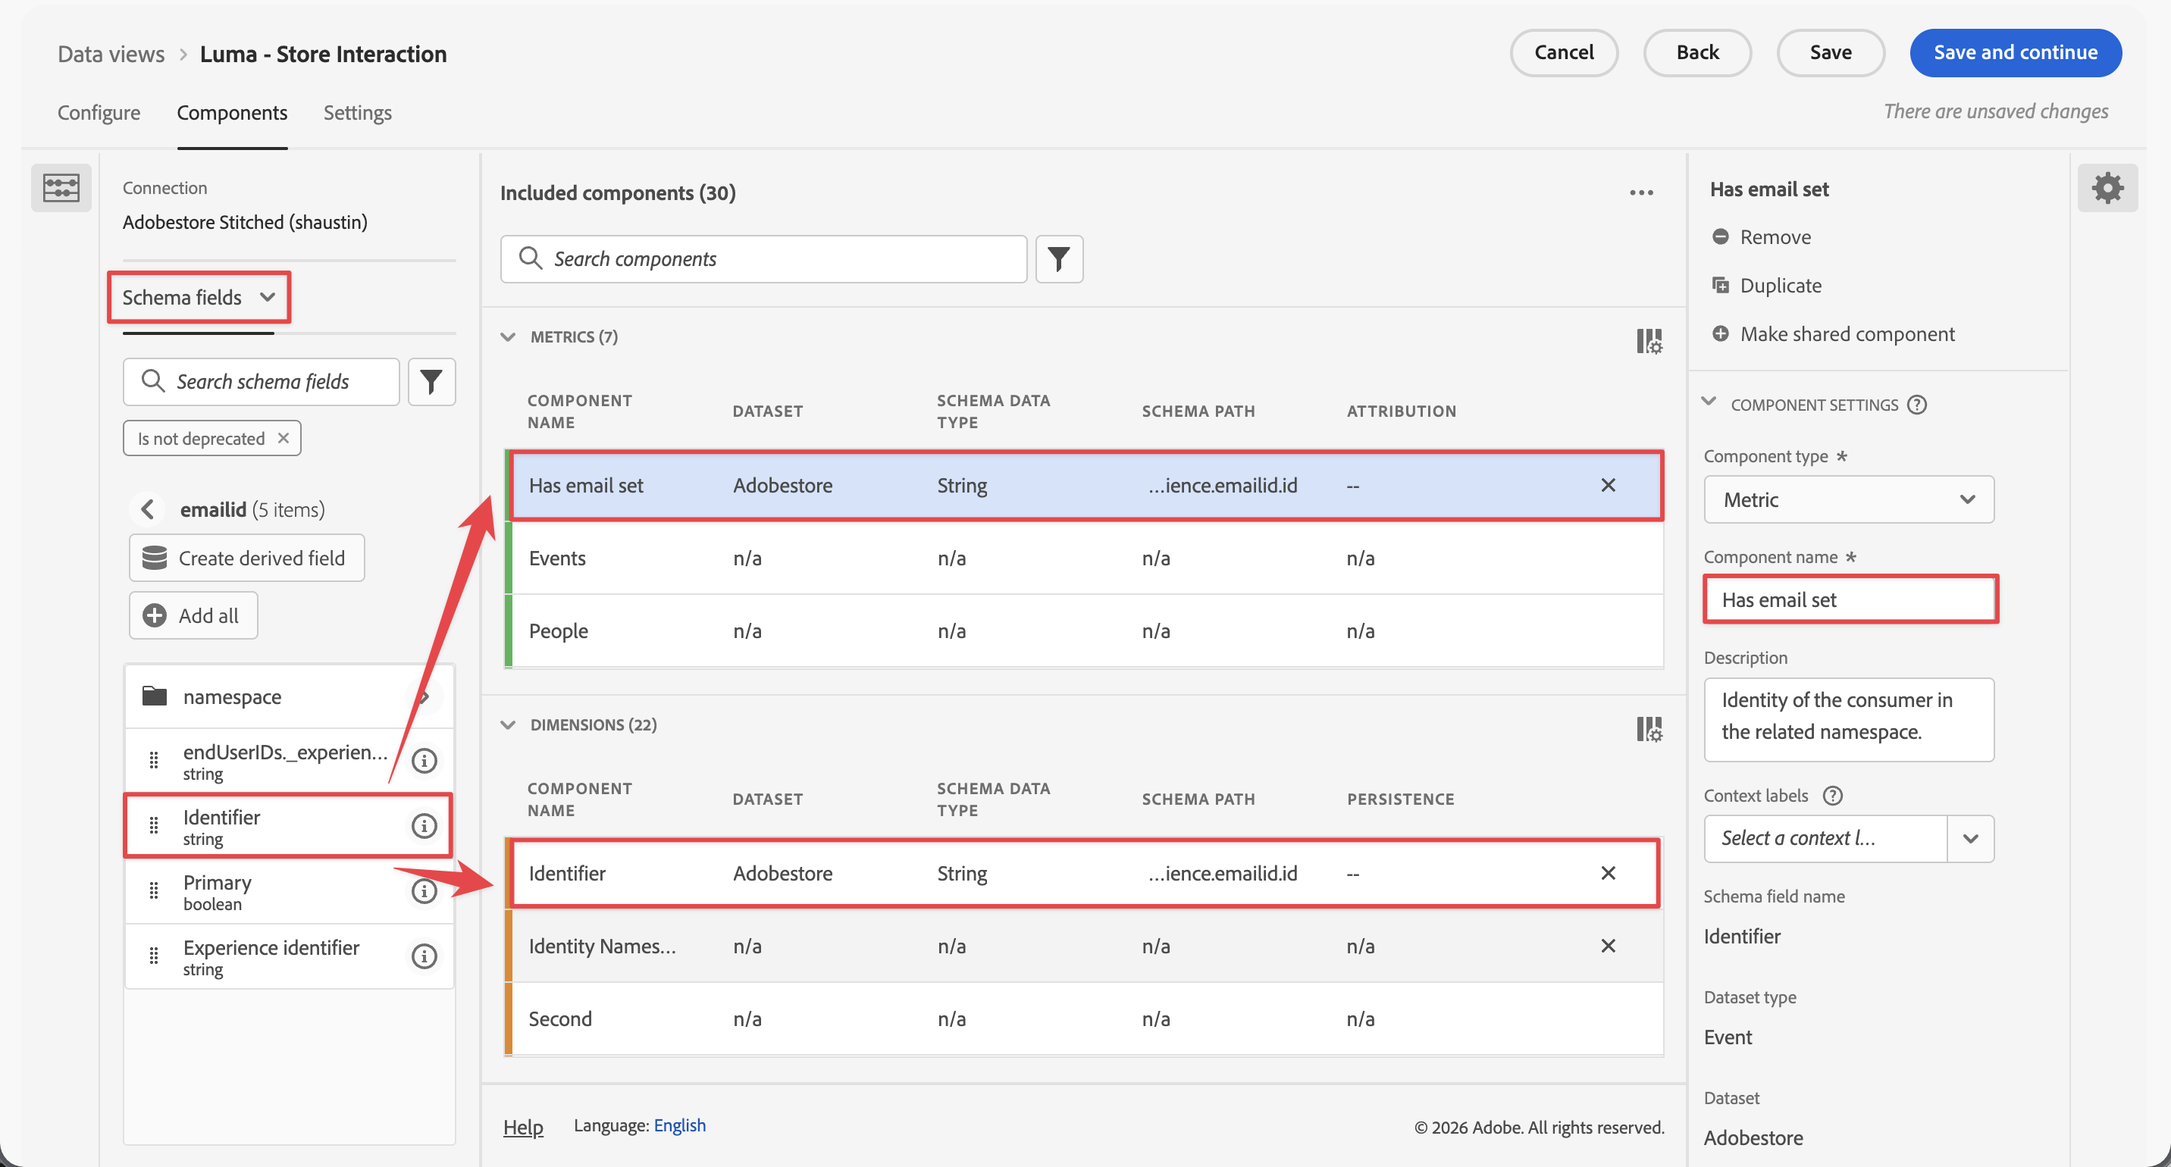
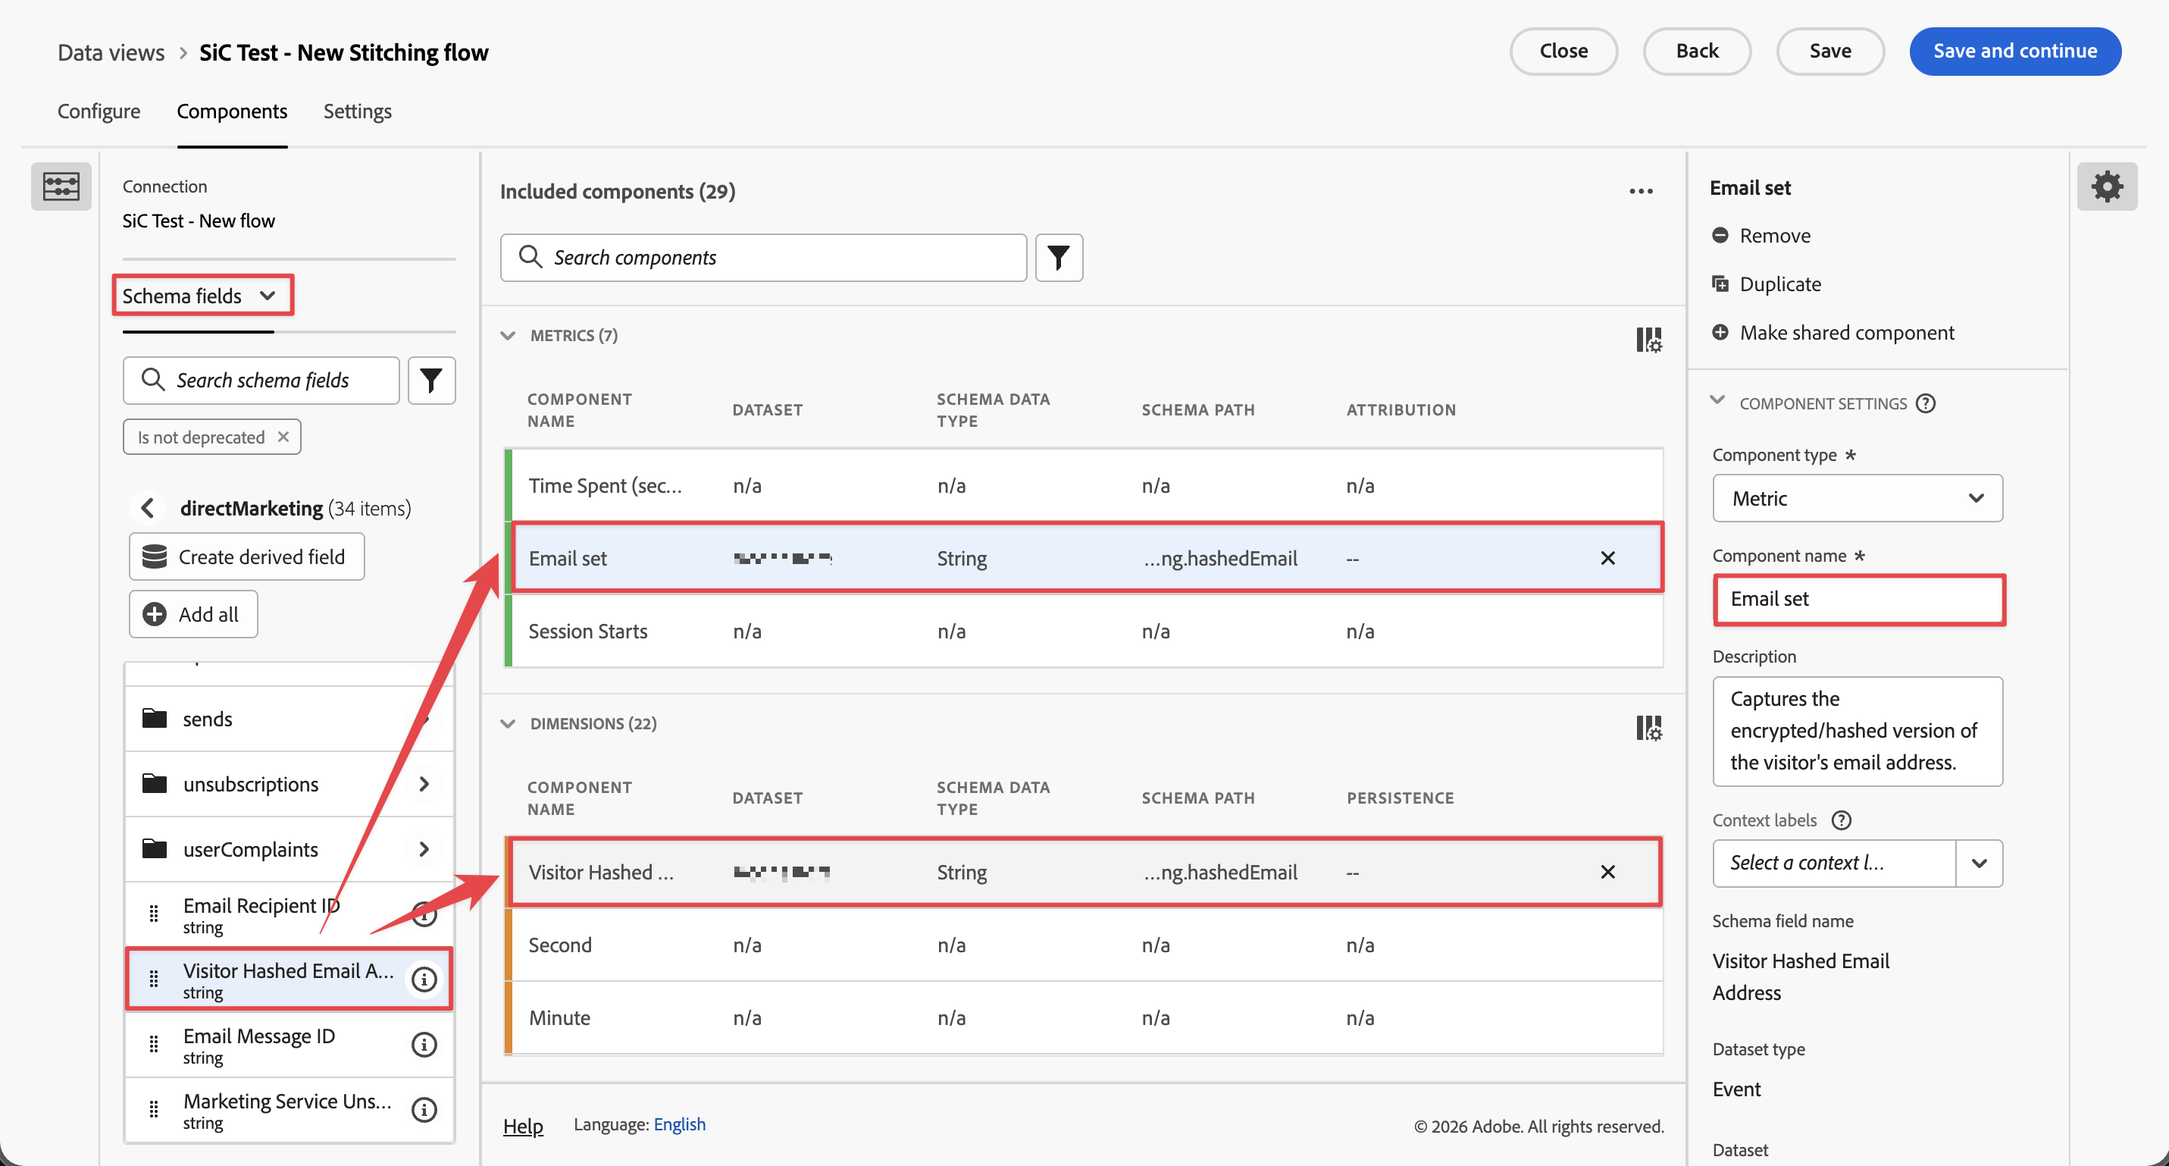
Updates to validate stitching article

diff --git a/help/stitching/validate.md b/help/stitching/validate.md
@@ -8,13 +8,13 @@ exl-id: b9b73926-6502-4a48-ba73-c784f80950d3
 ---
 # Validate stitching
 
-The goal of [identity stitching](/help/stitching/overview.md) (or simply, stitching) is to elevate the suitability of an event dataset for cross-channel analysis. This elevation is achieved when all rows of data in the dataset contain the desired highest order of identity that is available. This elevation allows you then to:
+The goal of [identity stitching](/help/stitching/overview.md) (or simply, stitching) is to elevate the suitability of an event dataset for cross-channel analysis. This elevation is achieved when all rows of data in the dataset contain the desired highest-order identity that is available. This elevation allows you to:
 
 * Create person-centric reports, while not leaving out anonymous people.
 * Connect multiple devices to a single person.
 * Connect a person across channels.
 
-This article outlines analysis methods to measure the elevation on one or more newly created stitched datasets and to provide confidence that stitching is delivering these benefits. 
+This article outlines analysis methods to measure the elevation of one or more newly created stitched datasets and to provide confidence that stitching is delivering these benefits. 
 
 The analysis methods involve [Data view component settings](/help/data-views/component-settings/overview.md) that are typically accessible to admins. The methods also require analysts, who work in an Analysis Workspace project, to create calculated metrics and visualizations. 
 
@@ -31,17 +31,87 @@ See ![VideoCheckedOut](/help/assets/icons/VideoCheckedOut.svg) [Stitching enable
 
 >[!ENDSHADEBOX]
 
->[!IMPORTANT]
->
->This article describes how to validate stitching that is [requested through Adobe](/help/stitching/use-stitching.md) and is implemented using a stitched identity column added to a duplicate stitched dataset. The article is planned to be updated soon with details on how to validate stitching that is [enabled through the Connections UI](/help/stitching/use-stitching-ui.md).
 
 
+## Stitching in Connections validation
 
-## Data view prerequisites
+This section details how to validate stitching you have enabled in the Connections interface. 
 
-For the stitching validation measurement plan, you need to ensure you have all the required dimensions and metrics from your stitched dataset defined in a data view. You need to verify that both `stitchedID.id` and `stitchedId.namespace.code` fields are added as dimensions. While the stitched dataset is an exact copy of the original dataset, the stitching process adds these two new columns to the dataset:
+### Connection recommendations
 
-* Use `stitchedID.namespace.code` to define a **[!UICONTROL Stitched Namespace]** dimension. This dimension contains the namespace of the identity that the row was elevated to, for example `Email`, `Phone`. Or the namespace the stitching process fallbacks to, such as `ECID`. 
+To validate stitching that you enabled in the Connections interface, select a short and representative period for **[!UICONTROL Dataset backfill]**. For example, one week.
+
+In the example below, you want to stitch the event dataset. You have setup a test connection in which you add the event dataset. For that dataset, you define the **[!UICONTROL ECID]** **[!UICONTROL Namespace]** as the **[!UICONTROL Persistent ID]** and **[!UICONTROL Visitor Hashed Email Address (directMarketing.hashedEmail)]** as the **[!UICONTROL Person ID]**. To validate this stitching, you define a **[!UICONTROL Dataset backfill]** for a small time window (January 24, 2026 - February 10, 2026). You use that small window to validate whether stitching does work as intended.
+
+![Stitching config](/help/stitching/assets/stitching-config.png)
+
+### Data view prerequisites
+
+For the stitching validation, you need to ensure you have all the required dimensions and metrics from your stitched dataset defined in a data view. Create a data view based on the connection you defined earlier. In the **[!UICONTROL Components]** step of the data view configuration, you need to:
+
+* Add **[!UICONTROL Identity Namespace]** from **[!UICONTROL Metrics & Dimensions]** as a dimension to the **[!UICONTROL Dimensions]** list. 
+
+  ![Identity Namespace](assets/identity-namespace.png)
+
+
+* Select the **[!UICONTROL Visitor Hashed Email Address Identifier]** that you have defined as the person ID for your events from **[!UICONTROL Schema fields]**. Add the field as a dimension to the **[!UICONTROL Dimensions]** list and as a metric to the **[!UICONTROL Metrics]** list. Modify the **[!UICONTROL Component name]** for the metric to `Email set`.
+
+  ![Email identifier](assets/email-identifier.png)
+
+Ensure you save the data view.
+
+### Workspace
+
+In Workspace, create a new project and use a freeform table to show the **[!UICONTROL Email set]** metric for the date range you have defined to test your stitching configuration. This freeform table shows the events that do have an email address before stitching.
+
+![Stitching overview freeform table - Email set](/help/stitching/assets/workspace-emailset.png)
+
+To see the events that have an email address set after the stitching process, define a calculated metric `Email stitched namespace`. That calculated metric looks at **[!UICONTROL Events]** that have an **[!UICONTROL Identity Namespace]** equal to the hashed email namespace **[!UICONTROL email_lc_sha256]**.
+
+![Stitching overview - Email stitched namespace calculated metric](/help/stitching/assets/cm-email-stitched-namespace.png)
+
+If you add the new calculated metric **[!UICONTROL Email stitched namespace]** to the freeform table, you see the increase in the number of events that now do have an email address after the stitching process.
+
+![Stitching overview freeform table - Email set and stitched](/help/stitching/assets/workspace-emailset-stitched.png)
+
+You can get further insights when you define two additional calculated metrics.
+
+* **[!UICONTROL Email authentication rate]**. This calculated metric determines the authentication rate before the stitching process. 
+ 
+  ![Email authentication rate calculated metric definition](/help/stitching/assets/cm-email-authentication-rate.png)
+
+* **[!UICONTROL Stitched authentication rate]**. This calculated metric determines the authentication rate after the stitching process.
+
+  ![Stitched authentication rate calculated metric definition](/help/stitching/assets/cm-stitched-authentication-rate.png)
+
+Add these two additional calculated metrics to your freeform table, and you can see the increase in stitched events.
+
+![Stitching overview freeform table - Authenticated](/help/stitching/assets/workspace-authenticated.png)
+
+For more insights, you can add two more calculated metrics (**[!UICONTROL Percent increase]** and **[!UICONTROL Lift]**) to your freeform table to see the impact of your stitching configuration.
+
+![Stitching overview freeform table - Authenticated Lift](/help/stitching/assets/workspace-authenticated-lift.png)
+
+The key takeaway from this article is that this type of stitching validation and analysis helps you to:
+
+* Provide a comprehensive custom view of authentication effectiveness by comparing current versus stitched rates.
+* Enable clear measurement of the improvement through percentage increases and lift metrics.
+* Help identify the true impact of implementing stitching on user authentication.
+* Create a standardized way to communicate authentication performance across teams.
+* Allow for data-driven decisions about authentication strategy and optimization.
+
+These metrics together give stakeholders a complete picture of how Customer Journey Analytics stitching affects authentication success rates and overall person identification performance.
+
+
+## Request stitching validation
+
+This section details how to validate stitching that you have requested from Adobe. This method is deprecated, but you might still have datasets that were stitched using this method.
+
+### Data view prerequisites
+
+For the stitching validation measurement plan, you need to ensure you have all the required dimensions and metrics from your stitched dataset defined in a data view. Verify that both `stitchedID.id` and `stitchedID.namespace.code` fields are added as dimensions. While the stitched dataset is an exact copy of the original dataset, the stitching process adds these two new columns to the dataset:
+
+* Use `stitchedID.namespace.code` to define a **[!UICONTROL Stitched Namespace]** dimension. This dimension contains the namespace of the identity that the row was elevated to, for example `Email` or `Phone`. Or the namespace that the stitching process falls back to, such as `ECID`. 
   ![Stitched namespace dimension](assets/stitchednamespace-dimension.png)
 
 * Use `stitchedID.id` to define a **[!UICONTROL Stitched ID value]** dimension. This dimension contains the raw value of the identity. For example: hashed email, hashed phone, ECID. This value is used with **[!UICONTROL Stitched Namespace]**.
@@ -55,57 +125,57 @@ Furthermore, you need to add two stitching metrics that are based on the presenc
    In the example below, `personalEmail.address` serves as the identity and is used to create the **[!UICONTROL _Email set]** metric.
    ![Email set metric](assets/emailset-metric.png)
 
-1. Use `stitchedID.namespae.code` field to create an **[!UICONTROL Email stitched namespace]** dimension. Ensure you specify [Include Exclude values in component settings](/help/data-views/component-settings/include-exclude-values.md), so you only consider values of the namespace you are trying to elevate rows of data to. 
+1. Use the `stitchedID.namespace.code` field to create an **[!UICONTROL Email stitched namespace]** metric. Ensure you specify [Include Exclude values in component settings](/help/data-views/component-settings/include-exclude-values.md), so you only consider values of the namespace you are trying to elevate rows of data to. 
    1. Select **[!UICONTROL Set include/exclude values]**.
    1. Select **[!UICONTROL If all criteria are met]** as the **[!UICONTROL Match]**.
    1. Specify **[!UICONTROL Equals]** `email` as the **[!UICONTROL Criteria]** to select events that have been elevated to the Email namespace.
 
-   ![Email stiched namespace metric](assets/emailstitchednamespace-metric.png)
+   ![Email stitched namespace metric](assets/emailstitchednamespace-metric.png)
 
-## Stitched dimensions
+### Stitched dimensions
 
 With both of these dimensions added to the data view, use [Freeform tables](/help/analysis-workspace/visualizations/freeform-table/freeform-table.md) in Analysis Workspace to check the data that each dimension has.
  
-In the **[!UICONTROL Stitched Namespace dimension**] table, you typically see two rows for each dataset. One row that represents when the stitching process had to use the fallback method (ECID). The other row shows events associated with the desired identity namespace (email).
+In the **[!UICONTROL Stitched Namespace]** dimension table, you typically see two rows for each dataset. One row represents when the stitching process had to use the fallback method (ECID). The other row shows events associated with the desired identity namespace (email).
 
-For the **[!UICONTROL Stitched ID dimension**] table, you see the raw values that are coming from the events. In this table, you see that values oscillate between the persistent id and the desired person ID.
+For the **[!UICONTROL Stitched ID value]** dimension table, you see the raw values that are coming from the events. In this table, you see that values oscillate between the persistent ID and the desired person ID.
 
-![Check stiched dimensions](assets/check-data-on-stitching.png)
+![Check stitched dimensions](assets/check-data-on-stitching.png)
 
 
-## Device-centric or Person-centric reporting
+### Device-centric or Person-centric reporting
 
-When you create a connection, you have to define what field or identity is used for the person ID. For instance, on a web dataset, if you choose a device id as the person ID, then you create device centric reports and lose the ability to join this data with other offline channels. If you select a cross-channel field or identity, for example email, you lose out on any unauthenticated events. To understand this impact, you need to figure out how much of the traffic is unauthenticated and how much of the traffic is authenticated.
+When you create a connection, you have to define what field or identity is used for the person ID. For instance, on a web dataset, if you choose a device ID as the person ID, then you create device-centric reports and lose the ability to join this data with other offline channels. If you select a cross-channel field or identity, for example email, you lose out on any unauthenticated events. To understand this impact, you need to figure out how much of the traffic is unauthenticated and how much of the traffic is authenticated.
 
-1. Create a calculated metric **[!UICONTROL Unauthenticated events over total]**. Define the rule in the rule builder like below:
+1. Create a calculated metric **[!UICONTROL Unauthenticated events over total]**. Define the rule in the rule builder as shown below:
    ![Unauthenticated events over total](assets/calcmetric-unauthenticatedeventsovertotal.png)
 
-1. Create a calculated metric **[!UICONTROL Email authentication rate]**, based on the **[!UICONTROL _Email set]** metric that you defined earlier. Define the rule in the rule builder like below:
+1. Create a calculated metric **[!UICONTROL Email authentication rate]**, based on the **[!UICONTROL _Email set]** metric that you defined earlier. Define the rule in the rule builder as shown below:
    ![Email authentication rate](assets/calcmetric-emailauthenticationrate.png)
 
-1. Use the **[!UICONTROL Unauthenticated events over total]** calculated metric, together with the **[!UICONTROL Email authentication rate]** calculated metric, to create a [Donut](/help/analysis-workspace/visualizations/donut.md) visualization. The visualization shows the number of events in the dataset that are unauthenticated and are authenticated.
+1. Use the **[!UICONTROL Unauthenticated events over total]** calculated metric, together with the **[!UICONTROL Email authentication rate]** calculated metric, to create a [Donut](/help/analysis-workspace/visualizations/donut.md) visualization. The visualization shows the number of events in the dataset that are unauthenticated and authenticated.
 
    ![Identification details](assets/identification-details.png)
 
 
 
-## Stitching identification rates
+### Stitching identification rates
 
 You want to measure the identification performance before and after stitching. To do so, create three additional calculated metrics:
 
 1. A **[!UICONTROL Stitched authentication rate]** calculated metric that calculates the number of events where the stitched namespace is set to the desired identity over the total number of events. When you set up the data view, you created an **[!UICONTROL Email stitched namespace]** metric that included a filter to count only when an event has a namespace set to email. The calculated metric uses this **[!UICONTROL Email stitched namespace]** metric to provide an indication of what percentage of the data has the desired identity.
-   ![Stiched authentication rate calculated metric](assets/calcmetric-stitchedauthenticationrate.png)
+   ![Stitched authentication rate calculated metric](assets/calcmetric-stitchedauthenticationrate.png)
 
 1. A **[!UICONTROL Percent increase]** calculated metric that calculates the raw percentage change between the current identification rate and the stitched one.
    ![Percent increase calculated metric](assets/calcmetric-percentincrease.png)
 
 1. A **[!UICONTROL Lift]** calculated metric that calculates the lift between the current identification rate and the stitched identification rate.
-   ![Lift calculated  metric](assets/calcmetric-lift.png)
+   ![Lift calculated metric](assets/calcmetric-lift.png)
 
 
-## Conclusion
+### Conclusion
 
-If you combine all data in an Analysis Workspace Freeform table you can start to see the impact and value that stitching provides, inclusive of:
+If you combine all data in an Analysis Workspace Freeform table, you can start to see the impact and value that stitching provides, inclusive of:
 
 * Current authentication rate: The baseline of the number of events that already had the correct person ID over the total number of events.
 * Stitched authentication rate: The new number of events that have the correct person ID over the total number of events.
@@ -114,7 +184,7 @@ If you combine all data in an Analysis Workspace Freeform table you can start to
 
 ![Identification performance](assets/identification-performance.png)
 
-The key takeaway from this article is that this type of stitching validation and analysis supports you to:
+The key takeaway from this article is that this type of stitching validation and analysis helps you:
 
 * Provide a comprehensive custom view of authentication effectiveness by comparing current versus stitched rates.
 * Enable clear measurement of the improvement through percentage increases and lift metrics.
@@ -123,30 +193,3 @@ The key takeaway from this article is that this type of stitching validation and
 * Allow for data-driven decisions about authentication strategy and optimization.
 
 These metrics together give stakeholders a complete picture of how Customer Journey Analytics stitching affects authentication success rates and overall person identification performance.
-
-
-
-## Connection recommendations
-
-To validate stitching that you enabled in the Connections UI, select a short and representative period for Dataset backfill. For example, one week.
-
-In the example below, you want to stitch the event dataset Luma - Store Interaction. You have setup a test connection in which you configure a Luma - Store interaction event dataset. For that dataset, you define the ECID namespace as the persistent ID and the Email namespace as the person ID. To validate this stitching, you define a backfill of data for a small time window (January 25th, 2026 - January 31, 2026). You use that small window to validate whether stitching does work as intendend.
-
-## Data view prerequisites
-
-For the stitching validation, you need to ensure you have all the required dimensions and metrics from your stitched dataset defined in a data view. To do this, create a data view based on the connection you defined earlier. In the Components step of 
-
-* Add **[!UICONTROL Identity Namespace]** from **[!UICONTROL Metrics & Dimensions]** as a dimension to the **[!UICONTROL Dimensions]** list. 
-
-  ![Identity Namespace](assets/identity-namespace.png)
-
-
-* Add the email **[!UICONTROL Identifier]** you have defined for you events from **[!UICONTROL Schema fields]**, both as a dimension to the **[!UICONTROL Dimensions]** list and as a metric to the **[!UICONTROL Metrics]** list. Modify the name for the metric to `Has email set.`
-
-  ![Email identifier](assets/email-identifier.png)
-
-
-Ensure you save the data view.
-
-## Workspace
-
